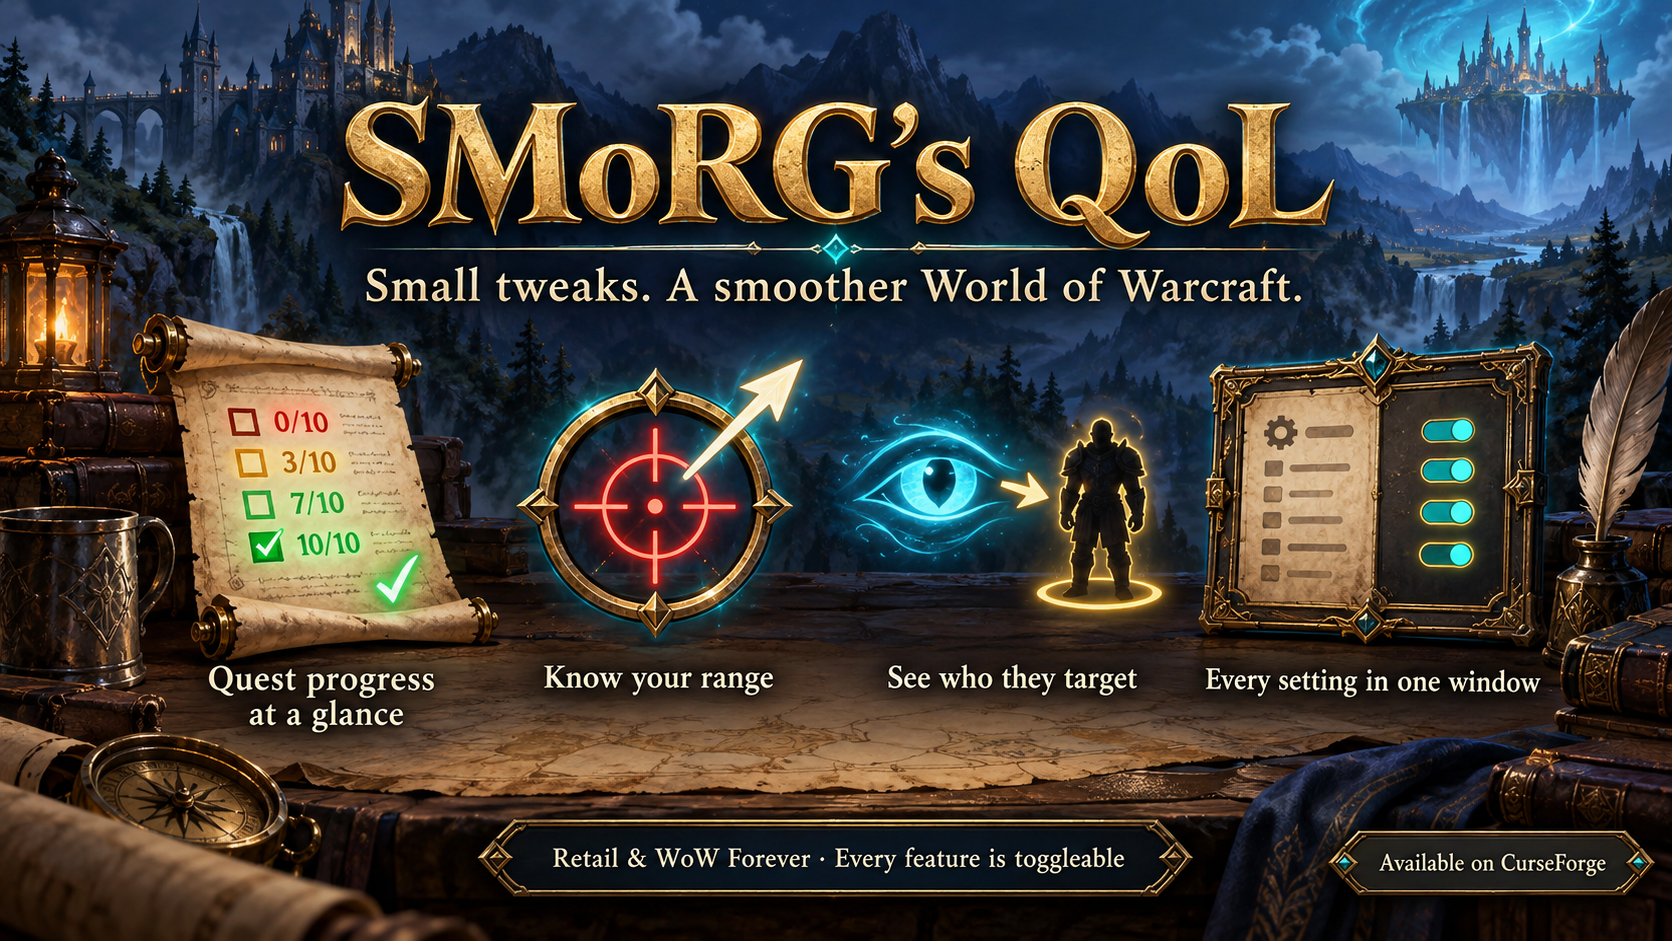
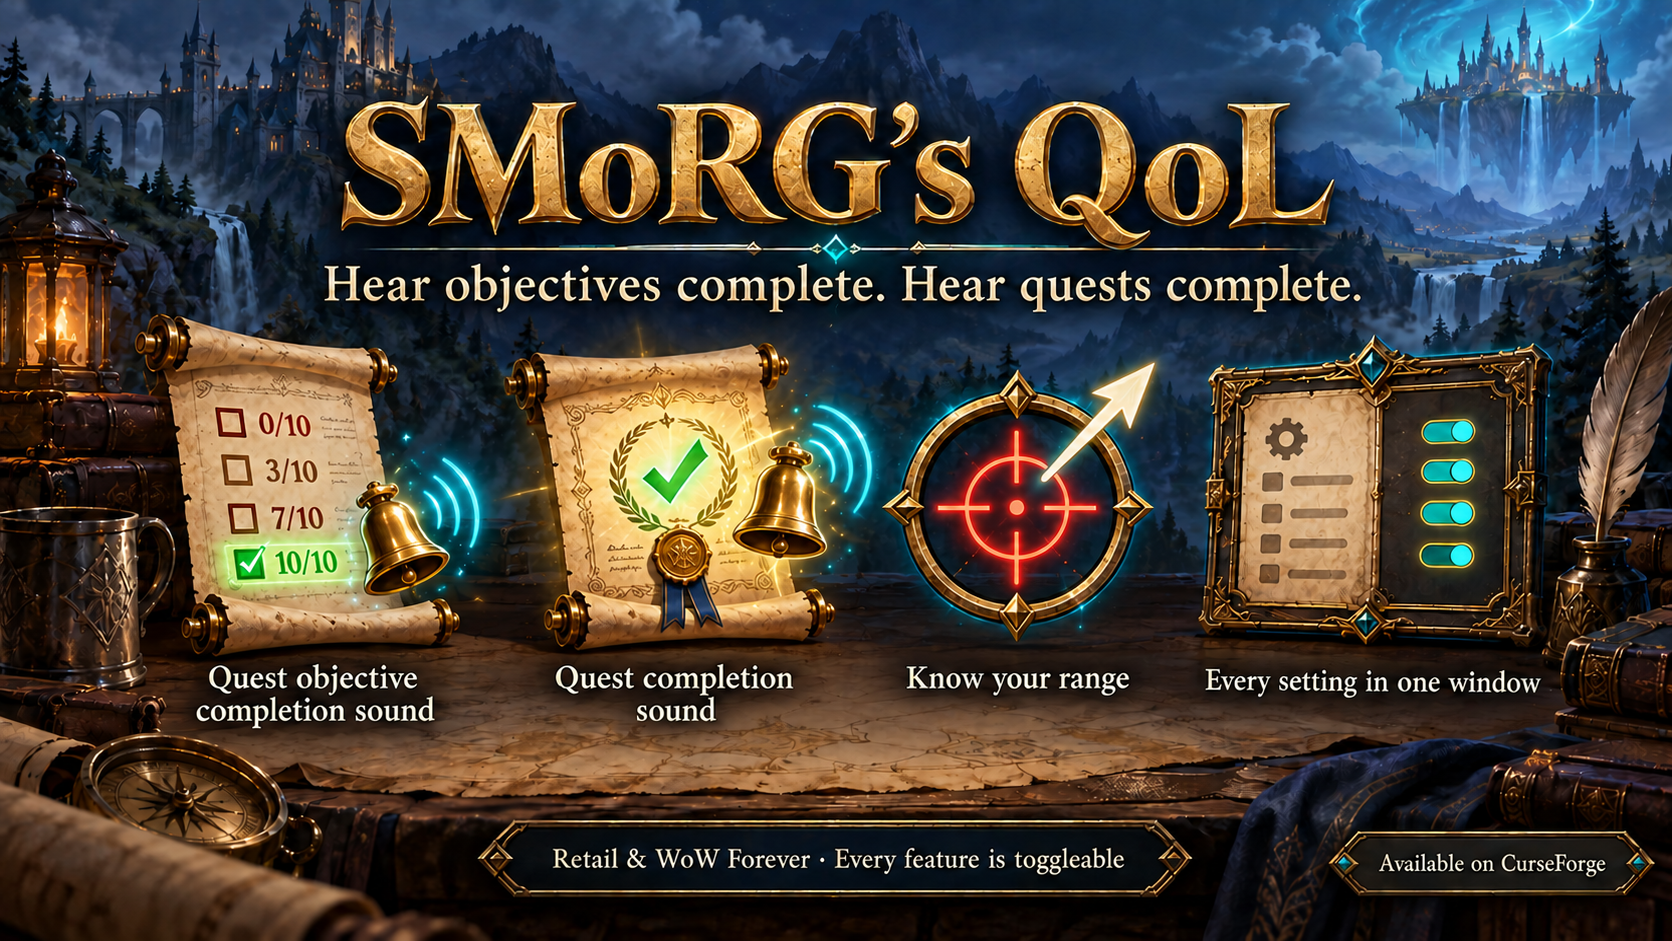
Put the quest sounds first in the TOC, README and gallery
The addon started from the objective and quest completion voice lines,
but the TOC notes, README intro and gallery barely mentioned them.

- TOC notes and README intro lead with the voice lines; the sounds are
  the first entry in the README feature list.
- New first gallery slide "Hear your progress" with the sound options and
  the Peon and Human worker lines; the other slides move one place down.
- New promo banner and social image that feature both sounds, with
  updated prompts. The gallery background uses the new banner.

diff --git a/output/promo/prompts.md b/output/promo/prompts.md
@@ -13,8 +13,7 @@ prompt, with no extra words, logos or garbled lettering.
 
 ## Banner
 
-Use case: ads-marketing. Create a polished wide promotional banner for a World of Warcraft addon that supports both Retail and WoW Forever. Brand title verbatim: "SMoRG's QoL". Tagline verbatim: "Small tweaks. A smoother World of Warcraft." Other text, exactly four short feature captions: "Quest progress at a glance", "Know your range", "See who they target", "Every setting in one window". Footer text: "Retail & WoW Forever · Every feature is toggleable" and small "Available on CurseForge". Rich illustrated fantasy aesthetic, dark navy backdrop, warm antique gold title, tasteful turquoise magical glows, subtle parchment and metal details. Strong readable typography and generous spacing. Use four beautifully illustrated symbols, one above each caption: an unrolled quest scroll whose progress numbers glow from red through yellow to green with a green check mark; a red crosshair reticle inside a gold ring with a white arrow breaking out of it toward the upper right; a glowing eye beside a small gold arrow pointing at a target; an ornate open settings panel of parchment and gold with glowing toggle switches. These are conceptual feature illustrations, not fabricated game screenshots. A high quality cohesive marketing layout with atmospheric depth, restrained ornament, clear text readable at small size. No official Blizzard or Warcraft logos, no faction insignia, no extra text, no fake ratings, no performance claims. Landscape aspect ratio approximately 16:9.
-
+Use case: ads-marketing. Create a polished wide promotional banner for a World of Warcraft addon that supports both Retail and WoW Forever. Brand title verbatim: "SMoRG's QoL". Large tagline verbatim: "Hear objectives complete. Hear quests complete." Other text, exactly four feature captions from left to right: "Quest objective completion sound", "Quest completion sound", "Know your range", "Every setting in one window". Footer text: "Retail & WoW Forever · Every feature is toggleable" and small "Available on CurseForge". Rich illustrated fantasy aesthetic, dark navy backdrop, warm antique gold title, tasteful turquoise magical glows, subtle parchment and metal details. Strong readable typography and generous spacing. Use four beautifully illustrated conceptual symbols, one above each caption: a quest objective scroll with unfinished 0/10, 3/10 and 7/10 rows and a green checked 10/10 row beside a ringing bell; a separate whole completed quest scroll with a large green check, gold seal and ringing bell; a red crosshair reticle inside a gold ring with a white arrow breaking out toward the upper right; an ornate open settings panel of parchment and gold with glowing toggle switches. Both sound features must be visually and textually distinct and most prominent. These are conceptual feature illustrations, not fabricated game screenshots. A high quality cohesive marketing layout with atmospheric depth, restrained ornament, clear text readable at small size. No official Blizzard or Warcraft logos, no faction insignia, no extra text, no fake ratings, no performance claims, no sliders or fabricated settings. Landscape aspect ratio approximately 16:9.
 ## Social image
 
-Use case: ads-marketing. Create a square social media promotional illustration for a World of Warcraft addon called "SMoRG's QoL", for Retail and WoW Forever. Premium fantasy game aesthetic: navy blue, antique gold trim, turquoise magic, atmospheric painted background. Large perfectly readable title at top exactly "SMoRG's QoL". Beneath it exact subtitle "Your adventure. Your settings." Main hero illustration: an ornate open settings panel of parchment and gold with glowing toggle switches at the center; in front of it an unrolled quest scroll whose progress numbers glow from red to green with a luminous green check; beside it a red crosshair reticle in a gold ring with a white arrow breaking out toward the upper right, surrounded by a soft turquoise halo. Strong cohesive composition, lots of breathing room, richly detailed crafted objects. Bottom copy exactly "Track quests. Know your range. See every target." and below it "Every feature is toggleable." Small bottom call to action exactly "Try it on CurseForge". This is conceptual promotional art, not a game screenshot. No additional text, no official logos or faction insignia, no fake ratings. Make readable typography the priority. Square format.
+Use case: ads-marketing. Create a square social media promotional illustration for a World of Warcraft addon called "SMoRG's QoL", for Retail and WoW Forever. Premium fantasy game aesthetic: navy blue, antique gold trim, turquoise magic, atmospheric painted background. Large perfectly readable title at top exactly "SMoRG's QoL". Beneath it exact subtitle "Your adventure. Your settings." Main hero illustration: an ornate open settings panel of parchment and gold with glowing toggle switches at the center; in front of it an unrolled quest scroll whose progress numbers glow from red to green with a luminous green check; beside it a red crosshair reticle in a gold ring with a white arrow breaking out toward the upper right, surrounded by a soft turquoise halo. Strong cohesive composition, lots of breathing room, richly detailed crafted objects. Make the two sound features prominent as separate settings, labeled exactly "Quest objective completion sound" and "Quest completion sound". Other option labels must describe real addon settings from Options.lua; never invent brightness, volume, display sliders, target highlighting, or generic settings. Show readable labels rather than decorative lines. Bottom copy exactly "Hear objectives complete. Hear quests complete." and below it "Every feature is toggleable." Small bottom call to action exactly "Try it on CurseForge". This is conceptual promotional art, not a game screenshot. No additional marketing text, no official logos or faction insignia, no fake ratings. Make readable typography the priority. Square format.

diff --git a/output/gallery/gallery.md b/output/gallery/gallery.md
@@ -11,49 +11,55 @@ header); the source screenshots are in `screenshots/`.
 
 **Description:** Small tweaks for a smoother World of Warcraft, for Retail and WoW Forever. Every feature can be turned on or off.
 
-## 1. 01-options-window.png
+## 1. 01-quest-sounds.png
+
+**Title:** Hear your progress
+
+**Description:** A worker voice line for every finished objective, and another when the whole quest is ready to turn in. Choose the Horde Peon ("Work, work." / "Work complete.") or the Alliance worker ("More work?" / "Job's done!"), and toggle each sound on its own.
+
+## 2. 02-options-window.png
 
 **Title:** Every setting in one window
 
 **Description:** All options in one window, grouped into Quests, Character, Reputation & XP, Group, Interface and Advanced. Open it from Bazooka, Titan Panel and other LibDataBroker displays, the addon compartment, the optional minimap button or /sqol config. Changes apply immediately.
 
-## 2. 02-quest-progress.png
+## 3. 03-quest-progress.png
 
 **Title:** Quest progress at a glance
 
 **Description:** Objective counts in the tracker turn from red to green, for quests, campaign quests, world quests and bonus objectives, and progress messages are colored the same way.
 
-## 3. 03-range.png
+## 4. 04-range.png
 
 **Title:** Know your range
 
 **Description:** The distance to your target in yards, shown on its nameplate, with an icon when none of the offensive abilities on your action bars can reach it. Quest objective counts sit just above the name.
 
-## 4. 04-tooltip-target.png
+## 5. 05-tooltip-target.png
 
 **Title:** See who they target
 
 **Description:** Unit tooltips get a Target line: class-colored for players, reaction-colored for NPCs, and a red "You" when the unit is targeting you. It updates while you hover.
 
-## 5. 05-player-stats.png
+## 6. 06-player-stats.png
 
 **Title:** Item level and speed
 
 **Description:** Your equipped item level and movement speed on the player frame, each with its own toggle. Placed above your name on Retail and below the bars on WoW Forever.
 
-## 6. 06-xp-reputation.png
+## 7. 07-xp-reputation.png
 
 **Title:** XP and reputation, colored
 
 **Description:** The current XP and reputation values change from red to green, and reputation also shows the percentage left and your standing. Optional floating reputation gains and a custom combat text font.
 
-## 7. 07-group.png
+## 8. 08-group.png
 
 **Title:** Ready for the group
 
 **Description:** A countdown on queue pops and ready checks, and each party member's level on the party frames.
 
-## 8. 08-wow-forever.png
+## 9. 09-wow-forever.png
 
 **Title:** Also in WoW Forever
 

diff --git a/README.md b/README.md
@@ -2,6 +2,8 @@
 
 A small collection of **individually toggleable** quality-of-life tweaks for World of Warcraft (Retail and WoW Forever).
 
+🔊 It started with one idea: **hear your quest progress**. A worker voice line plays when you finish a quest objective (*"Work, work."*), and another when the whole quest is ready to turn in (*"Work complete."*). Prefer the Alliance? Switch to the Human worker (*"More work?"* / *"Job's done!"*).
+
 Everything is toggleable:
 - 🪟 via the options window (LibDataBroker displays such as Bazooka, the addon compartment menu, the optional minimap button or `/sqol config`),
 - ⚙ via the in-game Settings UI, or
@@ -56,12 +58,12 @@ After updating, **restart the game** (a `/reload` is not enough), because this r
 
 ## Features
 
+- 🔊 **Quest sounds: objective and quest completion**
+  - Plays a worker voice line when an individual objective is completed before the full quest is done (Peon: *"Work, work."*).
+  - Plays another voice line and prints a chat message when the whole quest is ready to turn in, or done for bonus/world quests (Peon: *"Work complete."*).
+  - Choose the Horde (Peon) or Alliance (Human worker: *"More work?"* / *"Job's done!"*) sound profile, and toggle each sound on its own (`/sqol objectivesound`, `/sqol questsound`, `/sqol soundprofile`).
 - 🧭 **Auto-track newly accepted quests**
   - Automatically tracks new quests in the Objective Tracker (with sanity checks to avoid unsupported edge cases).
-- 🔔 **Quest completion alert**
-  - Plays a sound (toggleable) and prints a chat message when a quest is ready to turn in (or done for bonus/world quests).
-  - Optionally plays a separate worker voice line when an individual objective is completed before the full quest is done.
-  - Supports selectable Horde (Peon) and Alliance (Human worker) sound profiles.
 - 🎨 **Colorized progress messages**
   - Colorizes common progress patterns like `3/10` or `45%` and quest objective progress (red → yellow → green).
   - Also covers progress-bar quest objectives and scenario weighted-progress bars, which the default UI reports silently.
